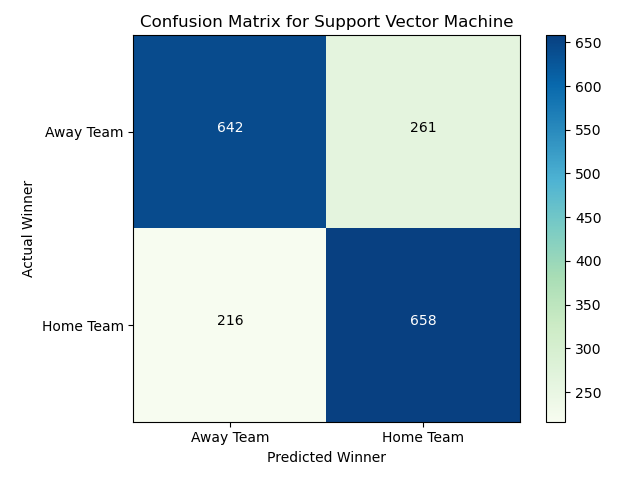
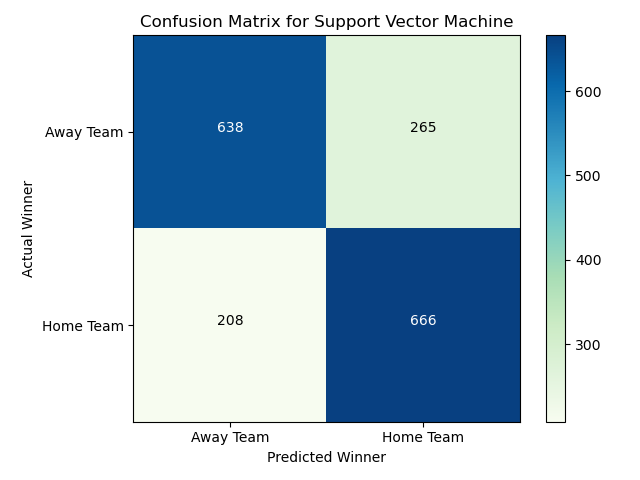
Supervised added.

diff --git a/index.md b/index.md
@@ -90,17 +90,21 @@ As we can see, these features are separable linearly at the tail ends on each si
 
 ## 4.2 Models
 
-Using features extracted above, we train a binary classifier using various algorithms. To start, we implement Logistic Regression [8], Support Vector Machines [9], Decision Tree [10] which are simple, efficient and interpretable algorithms and them move to ensemble methods like Random Forest [11], and Gradient Boost [12] to predict the probability of team labeled as home winning the match. In working with the classifier, we also experiment with forward feature selection [13] to select best features from the initial feature set, and also do Principal Component Analysis [14] to reduce the dimensionality of features. We tune all these methods by defining a search space and using Randomized Search  using k-fold cross validation.
+Using features extracted above, we train a binary classifier using various algorithms. To start, we implement Logistic Regression [8], Support Vector Machines [9], Decision Tree [10] ,Naive Bayes and kNN  which are simple, efficient and interpretable algorithms and then move to ensemble classifiers like Random Forest [11], and Gradient Boost [12] for Decision Trees and Adaptive Boosting for Logistic Regression and Decision Trees to predict the probability of team labeled as home winning the match. We also create an "Ensemble Classifier" which combines the tuned models from the base class and makes inference by majority voting and returns the predicted probability for class labels as the average of all constituent models' and compare its performance with the others. In working with the classifier, we also experiment with forward feature selection [13] to select best features from the initial feature set, and also do Principal Component Analysis [14] to reduce the dimensionality of features. We tune all these methods by defining a search space and using Randomized Search followed by Grid Search using k-fold cross validation.
 
 As we realize that the number of data can also be a cause of concern since World Cups happen once every four years in a space of two months, we generate artificial permutation of matches of two teams. To do this, we take a date \\(D\\) and team playing a match on that day \\(T_D\\). Then, for each team \\(T_D^i\\) in this set, if the team has played against a set \\(T_R\\) teams in the past, we generate a match between \\(T_D^i\\) and each member of set \\(T_R - T_D\\). After this, we select a random \\(N_A\\) set of matches from this and follow a semi-supervised learning [15] approach to train the classifier using labeled real matches and this unlabeled artificial matches to predict the results. We pass these unlabeled data points with the labels to iteratively predict the outcome of unlabeled points and add them to the training set if the confidence threshold of prediction is more than 0.75.
 
 ### 4.2.1 Model Training
 
-To select the features, we heurestically optimized \\(n_{ind}\\)=15 and \\(n_{h2h}\\)=15 by changing the values, training the models and analyzing the accuracy. We sweeped the values from 5 to 20 in steps of 5 and took the best combination.
+To select the features, we heuristically optimized \\(n_{ind}\\)=15 and \\(n_{h2h}\\)=15 by changing the values, training the models and analyzing the accuracy. We sweeped these values from 5 to 20 in steps of 5 and took the best combination.
 
 To train the model, we started with splitting our dataset into 80% Training Data and 20% Test Data.
 
 In all the learning algorithms employed we have a fixed set of hyperparameters (example penalty and 'c' for logistic regression, number of trees/tree depth/sampling rate for Random Forest etc). To tune these parameters we defined a search space and employed 2 types of searches, Randomized Search and Grid Search. Since this is a multivariate optimization problem, randomly sampling the parameters helps us narrow down the search space. We began with a Randomized Search in order to get to the vicinity of hyperparameters. Then, we conducted Grid Search in the proximity of the best performing solution of Randomized Search to fine tune a better performing set of hyperparameters. However, Grid Search did not yield significantly different results from the Randomized Search. Owing to the computational cost of Grid Search, we chose to run only Randomized Search. We did both of these using K-Fold Cross Validation with K = 5.
+### 4.2.2 Chosen Model Hyperparameters
+The following table lists the hyperparameters chosen for the models as determined by k-fold CV:
+
+-- TABLE GOES HERE--
 
 ## 4.3 Unsupervised Learning
 ### Motivation 
@@ -112,68 +116,132 @@ Under our clustering schemes we first divide all the teams in 4 clusters of 8 te
 
 1.**Constrained K-means** : This is a variation of the K-means clustering algorithm where we can control the cluster size[17]. Here we set the minimum and maximum of each cluster size to 8 simultaneousy for our task.The cluster to group assignment is done by sorting teams in ascending/descending order in terms of distance from the center of their repsective clusters and taking the top team from each cluster iteratively without replacement till we have 8 groups.
 
-2.**GMM** : We compare and contrast the above scheme which is a hard clustering scheme with Gaussian Mixture Models which is a soft clustering scheme . Various initialization schemes are tried and the one that yields the best clustering metrics is chosen.In this case for each gaussian center we order the points by the cluster responsibilty at each cluster and the top element from each cluster is selected and put in the same group till we exhaust all teams.
+2.**GMM** : We compare and contrast the above scheme which is a hard clustering scheme with Gaussian Mixture Models which is a soft clustering scheme . Various initialization schemes are tried and the one that yields the best clustering metrics is chosen.In this case for each gaussian center we order the points by the cluster responsibilty at each cluster and the top elements from each cluster is selected and put in the same group one by one till we exhaust all teams.
 # 5 Experiments
 
 ## 5.1 Supervised Model Performance
+
+### 5.1.1 Base Models
 
 We analyze the performance of the various classification schemes on our dataset using all standard metrics of evaluating a supervised learning algorithm. We primarily want to optimize the accuracy of the prediction, but since we have a balanced dataset and no bias towards avoiding either true negatives or false positives, we treat them fairly. Our final results are as shown below:
 
 | Technique          | Accuracy | Precision | Recall | F-1 score | ROC-AUC |
 | ------------------ | -------- | --------- | ------ | --------- | ------- |
-| Logistic Regression| 73.16%   | 73.30%    | 73.16% | 73.14%    | 0.81    |
-| SVM                | 73.16%   | 73.23%    | 73.16% | 73.15%    | 0.81    |
-| Decision Tree      | 70.29%   | 70.49%    | 70.29% | 70.25%    | 0.76    |
-| Random Forest      | 71.86%   | 72.00%    | 71.86% | 71.84%    | 0.79    |
-| Gradient Boosting  | 71.41%   | 71.94%    | 71.41% | 71.29%    | 0.79    |
+| Logistic Regression| 73.49%   | 73.59%    | 73.49% | 73.49%    | 0.81    |
+| SVM                | 73.38%   | 73.51%    | 73.38% | 73.37%    | 0.81    |
+| Decision Tree      | 70.29%   | 70.46%    | 70.29% | 70.26%    | 0.77    |
+| kNN                | 71.41%   | 71.51%    | 71.41% | 71.40%    | 0.80    |
+| Naive Bayes        | 72.54%   | 72.54%    | 72.54% | 72.53%    | 0.80    |
 
-From the above table, we can see that logistic regression and support vector machines outperform other models. On hyperparameter tuning using SVM, linear kernel was chosen which explains similar results of Logistic Regression and SVM. The value of C chosen was 0.007 for SVM and 0.01 for Logistic Regression. The slight difference can be explained by choices made my random search.
 
-We believe that the ensemble learning methods are not performing as well because the data is not enriched and complex enough to train them. This is also probably why we observed that for higher range of search space, the model over-fits and for relaxing the range to reduce over-fitting, the results are not as expected. The confusion matrices, learning curves and ROC curves of each of these methods are given below.
 
-### 5.1.1 Confusion Matrix
+### 5.1.2 Ensemble Models
+
+| Technique                    | Accuracy | Precision | Recall | F-1 score | ROC-AUC |
+| ---------------------------- | -------- | --------- | ------ | --------- | ------- |
+| Logistic Regression(Adaboost)| 73.16%   | 73.30%    | 73.16% | 73.14%    | 0.81    |
+| Decision Tree(Adaboost)      | 71.36%   | 71.50%    | 71.36% | 71.34%    | 0.81    |
+| Random Forest                | 71.69%   | 71.81%    | 71.69% | 71.68%    | 0.80    |
+| Gradient Boosting            | 71.52%   | 72.06%    | 71.52% | 71.41%    | 0.80    |
+| Ensemble Classifier          | 73.94%   | 74.02%    | 73.94% | 73.94%    | 0.81    |
+
+From the above table, we can see that **logistic regression** and **support vector machines** outperform other models except "**Ensemble Classifier**" . On hyperparameter tuning using SVM, linear kernel was chosen which explains similar results of Logistic Regression and SVM. The value of C chosen was 0.007 for SVM and 0.01 for Logistic Regression. The slight difference can be explained by choices made by random search.
+
+Our "**Ensemble Classifier**" slightly outperforms all the other  models(by approximately \\(0.5 \% \\)).We believe that the other ensemble learning methods are not performing as well because the data is not enriched and complex enough to train them. This is also probably why we observed that for higher range of search space, the model over-fits and for relaxing the range to reduce over-fitting, the results are not as expected. The confusion matrices, learning curves and ROC curves of each of these methods are given below.
+### 5.1.3 Confusion Matrix
+
+#### Base Models
+
 <p>
   <img src="./assets/images/confusion_matrix_lr.png" alt="LogisticRegressionCM" width="350"/>
   <img src="./assets/images/confusion_matrix_dt.png" alt="DTCM" width="350"/>
  </p>
  <p>
-   <img src="./assets/images/confusion_matrix_rf.png" alt="RFCM" width="350"/>
-  <img src="./assets/images/confusion_matrix_gb.png" alt="GBCM" width="350"/>
+   <img src="./assets/images/confusion_matrix_knn.png" alt="KNNCM" width="350"/>
+  <img src="./assets/images/confusion_matrix_nb.png" alt="NBCM" width="350"/>
  </p>
  <p>
   <img src="./assets/images/confusion_matrix_svm.png" alt="SVMCM" width="350"/>
  </p>
 
+#### Ensemble Models 
+<p>
+  <img src="./assets/images/confusion_matrix_rf.png" alt="RFCM" width="350"/>
+  <img src="./assets/images/confusion_matrix_gb.png" alt="GBCM" width="350"/>
+ </p>
+ <p>
+   <img src="./assets/images/confusion_matrix_lr_ada.png" alt="ADALRCM" width="350"/>
+  <img src="./assets/images/confusion_matrix_dt_ada.png" alt="ADADTCM" width="350"/>
+ </p>
+ <p>
+  <img src="./assets/images/confusion_matrix_ensemble.png" alt="EnsembleCM" width="350"/>
+ </p>
 
-### 5.1.2 Learning Curve
+### 5.1.4 Learning Curve
+
+#### Base Models
 
 <p>
   <img src="./assets/images/learning_curve_logistic_regression.png" alt="LogisticRegressionCurve" width="350"/>
   <img src="./assets/images/learning_curve_dt.png" alt="DTCurve" width="350"/>
  </p>
  <p>
-   <img src="./assets/images/learning_curve_rf.png" alt="RFCurve" width="350"/>
-  <img src="./assets/images/learning_curve_gb.png" alt="GBCurve" width="350"/>
+   <img src="./assets/images/learning_curve_knn.png" alt="KNNCurve" width="350"/>
+  <img src="./assets/images/learning_curve_nb.png" alt="NBCurve" width="350"/>
  </p>
  <p>
    <img src="./assets/images/learning_curve_svm.png" alt="SVMCurve" width="350"/>
  </p>
 
 
-### 5.1.3 ROC/AUC Curve
+-- Comments on kNN's learning curve --
 
+#### Ensemble Models
+
+<p>
+  <img src="./assets/images/learning_curve_rf.png" alt="RFCurve" width="350"/>
+  <img src="./assets/images/learning_curve_gb.png" alt="GBCurve" width="350"/>
+ </p>
+ <p>
+   <img src="./assets/images/learning_curve_lrada.png" alt="ADALRCurve" width="350"/>
+  <img src="./assets/images/learning_curve_dtada.png" alt="ADADTCurve" width="350"/>
+ </p>
+
+
+
+### 5.1.5 ROC/AUC Curve
+
+#### Base Models
 <p>
   <img src="./assets/images/roc_curve_lr.png" alt="LogisticRegressionROC" width="350"/>
   <img src="./assets/images/roc_curve_dt.png" alt="DTROC" width="350"/>
   
  </p>
  <p>
- <img src="./assets/images/roc_curve_rf.png" alt="RFROC" width="350"/>
-  <img src="./assets/images/roc_curve_gb.png" alt="GBROC" width="350"/>
+ <img src="./assets/images/roc_curve_knn.png" alt="KNNROC" width="350"/>
+  <img src="./assets/images/roc_curve_nb.png" alt="NBROC" width="350"/>
  </p>
   <p>
  <img src="./assets/images/roc_curve_svm.png" alt="SVMROC" width="350"/>
  </p>
+
+#### Ensemble Models
+
+<p>
+  <img src="./assets/images/roc_curve_rf.png" alt="RFROC" width="350"/>
+  <img src="./assets/images/roc_curve_gb.png" alt="GBROC" width="350"/>
+  
+ </p>
+ <p>
+ <img src="./assets/images/roc_curve_lrada.png" alt="LRADAROC" width="350"/>
+  <img src="./assets/images/roc_curve_dtada.png" alt="DTADAROC" width="350"/>
+ </p>
+  <p>
+ <img src="./assets/images/roc_curve_ensemble.png" alt="ENSROC" width="350"/>
+ </p>
+
+
+
 
 ## 5.2 Impact of Forward Feature Selection
 
